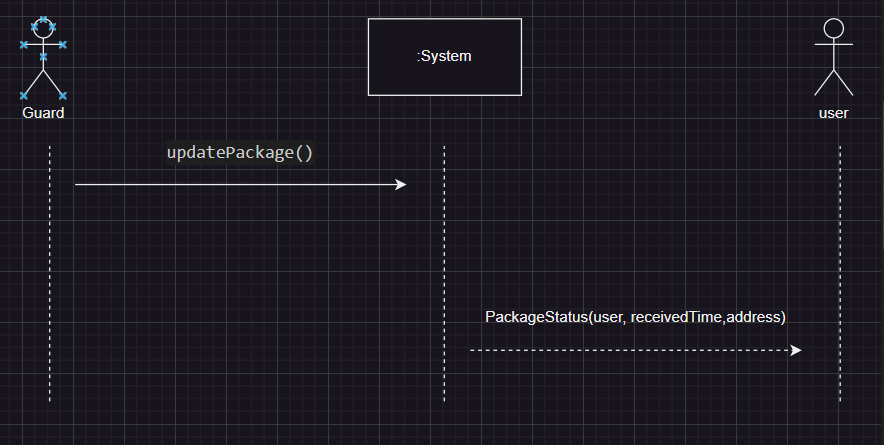
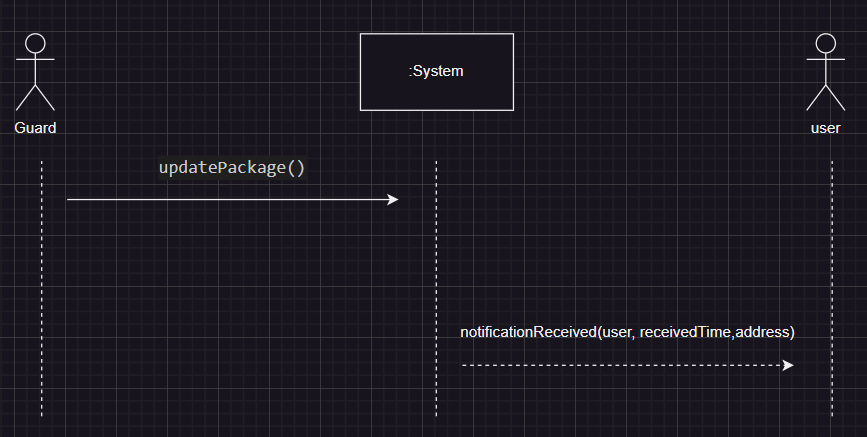
123

diff --git a/answer.md b/answer.md
@@ -27,7 +27,7 @@
 
 </br>![alt text](b2.png)
 </br>合約2：updatePackage()
-</br>操作：packageStatus(name,receivedTime,address)
+</br>操作：notificationReceived(name,receivedTime,address)
 </br>交互參照：包裹領取通知
 </br>前置作業：警衛簽收包裹
 </br>後製作業：包裹所屬人之住戶獲得APP推播簡訊，包含收件時間與幾號幾樓住戶
